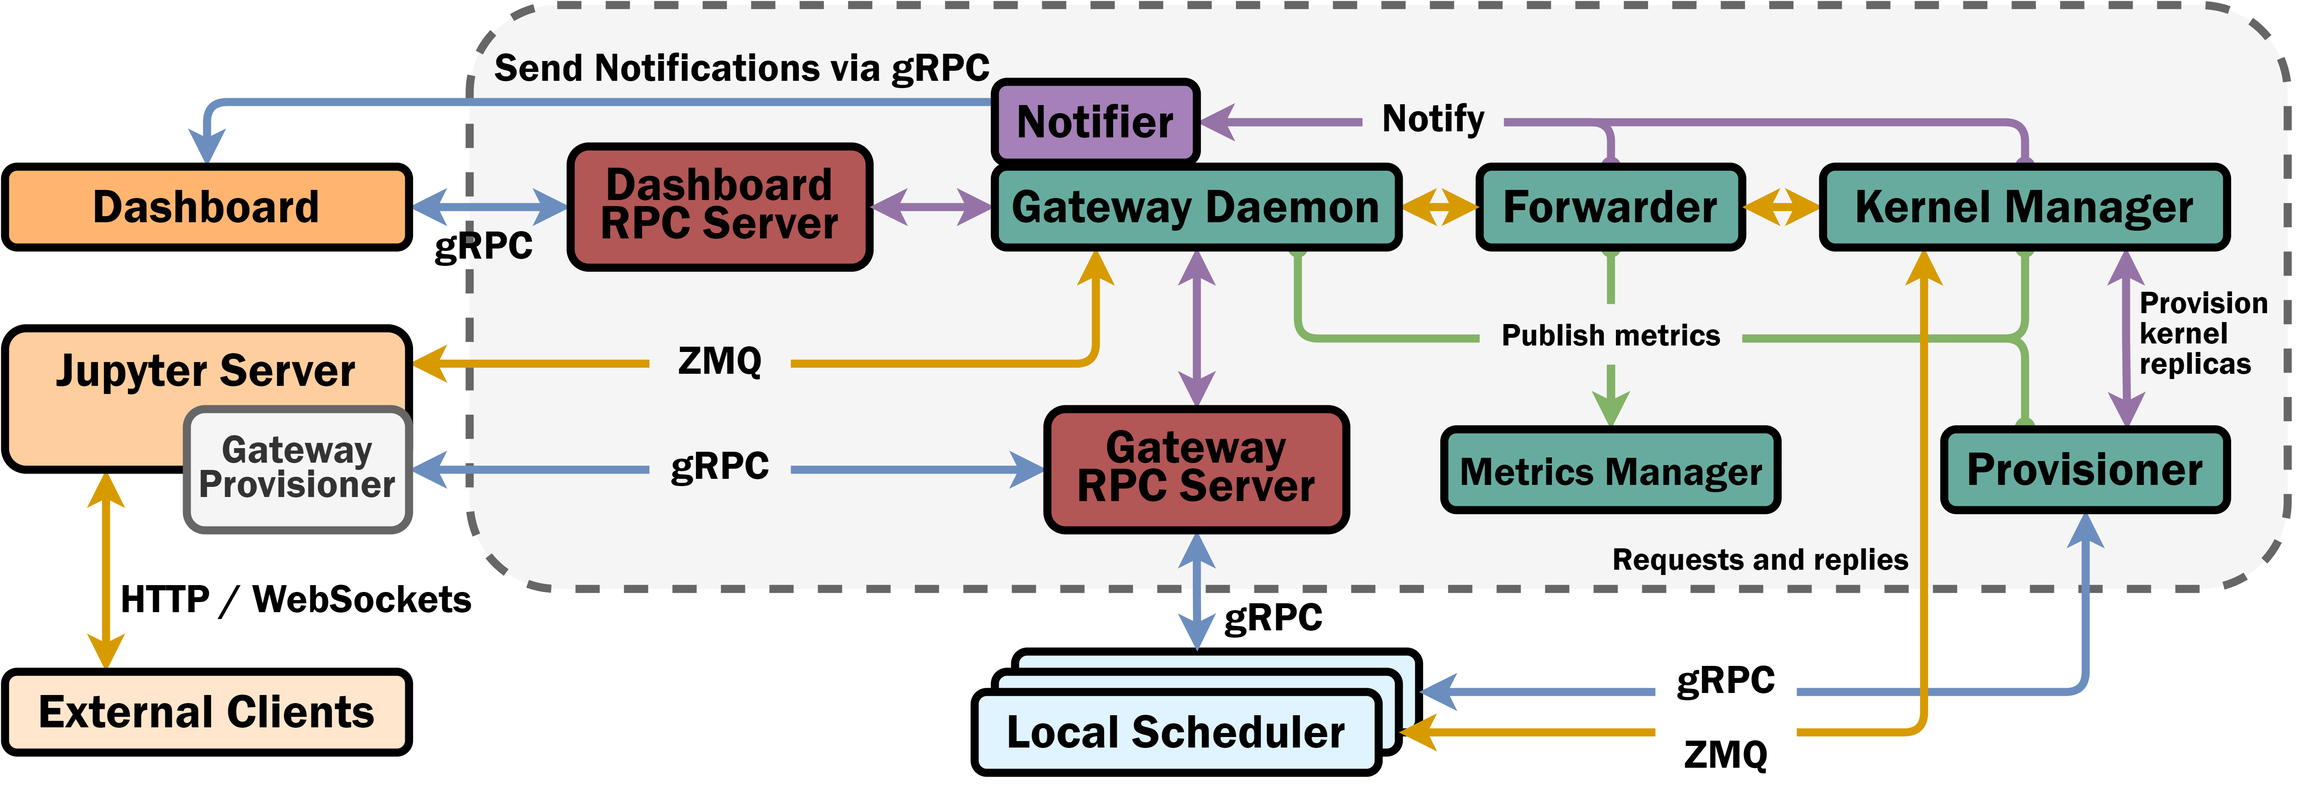
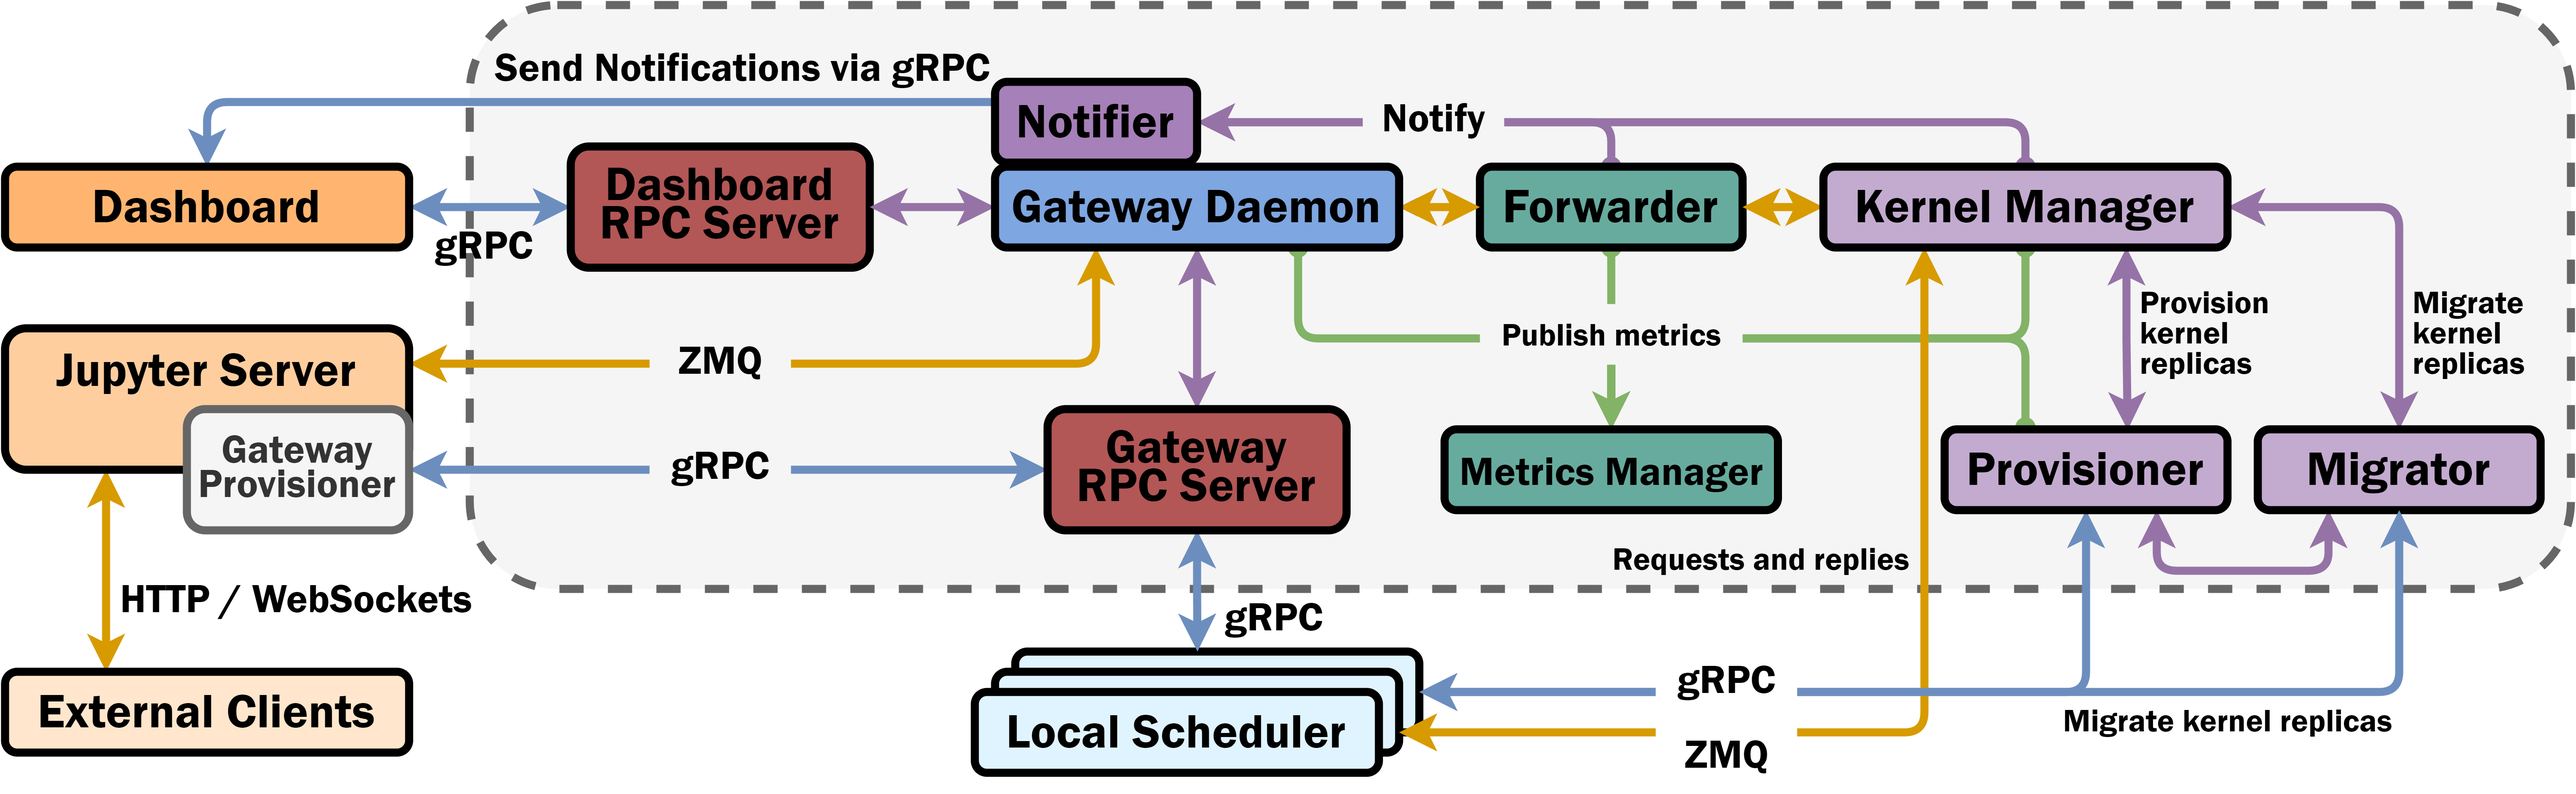
Updated architecture diagram and added some explanation of the different components

diff --git a/gateway/README.md b/gateway/README.md
@@ -7,3 +7,45 @@
 ## Architecture
 
 ![Gateway Architecture Diagram](docs/gateway_arch.png)
+
+### gRPC Servers
+
+There are two gRPC servers used by the Cluster Gateway. They are both defined in `internal/rpc`.
+
+The first is the Dashboard RPC Server. This server establishes a bidirectional gRPC connection with the Cluster Dashboard.
+The Cluster Gateway sends RPC requests to the Dashboard to deliver notifications to the frontend UI. The Dashboard
+sends RPC requests to the Cluster Gateway to retrieve information about Europa and the various kernels running within
+Europa.
+
+The second is the Gateway RPC Server. This server establishes bidirectional gRPC connections with all Local Schedulers
+running within Europa. The Gateway Provisioners created within the Jupyter Server also establishes (unidirectional)
+gRPC connections with the Gateway RPC Server in order to create Distributed Kernels.
+
+### **Gateway Daemon**
+
+The **Gateway Daemon** centralizes all the individual components that make up the Cluster Gateway. The 
+**Gateway Daemon** delegates task to the appropriate component.
+
+### **Notifier** 
+
+The **Notifier** is responsible for delivering notifications (sent via gRPC) to the frontend UI. These
+notifications are submitted as gRPC requests to the Cluster Dashboard, which then sends them to the frontend UI via
+HTTP or WebSockets.
+
+### **Forwarder**
+
+The **Forwarder** consumes ZMQ messages received by the Cluster Gateway and routes them through the 
+**Kernel Manager** component.
+
+### **Kernel Manager**
+
+The **Kernel Manager** is responsible for all bookkeeping and management of Distributed Kernels within the Cluster
+Gateway. The **Kernel Manager** receives ZMQ messages from the Forwarder and routes them to the appropriate handler.
+The **Kernel Manager** delegates kernel creation operations to the **Provisioner** and kernel migration operations to
+the **Migrator**.
+
+### **Metrics Manager**
+
+The **Metrics Manager** is responsible for maintaining all metrics and statistics relevant to the Cluster Gateway.
+The **Metrics Manager** is also responsible for serving the metrics on an HTTP endpoint such that they can be scraped
+by Prometheus.
